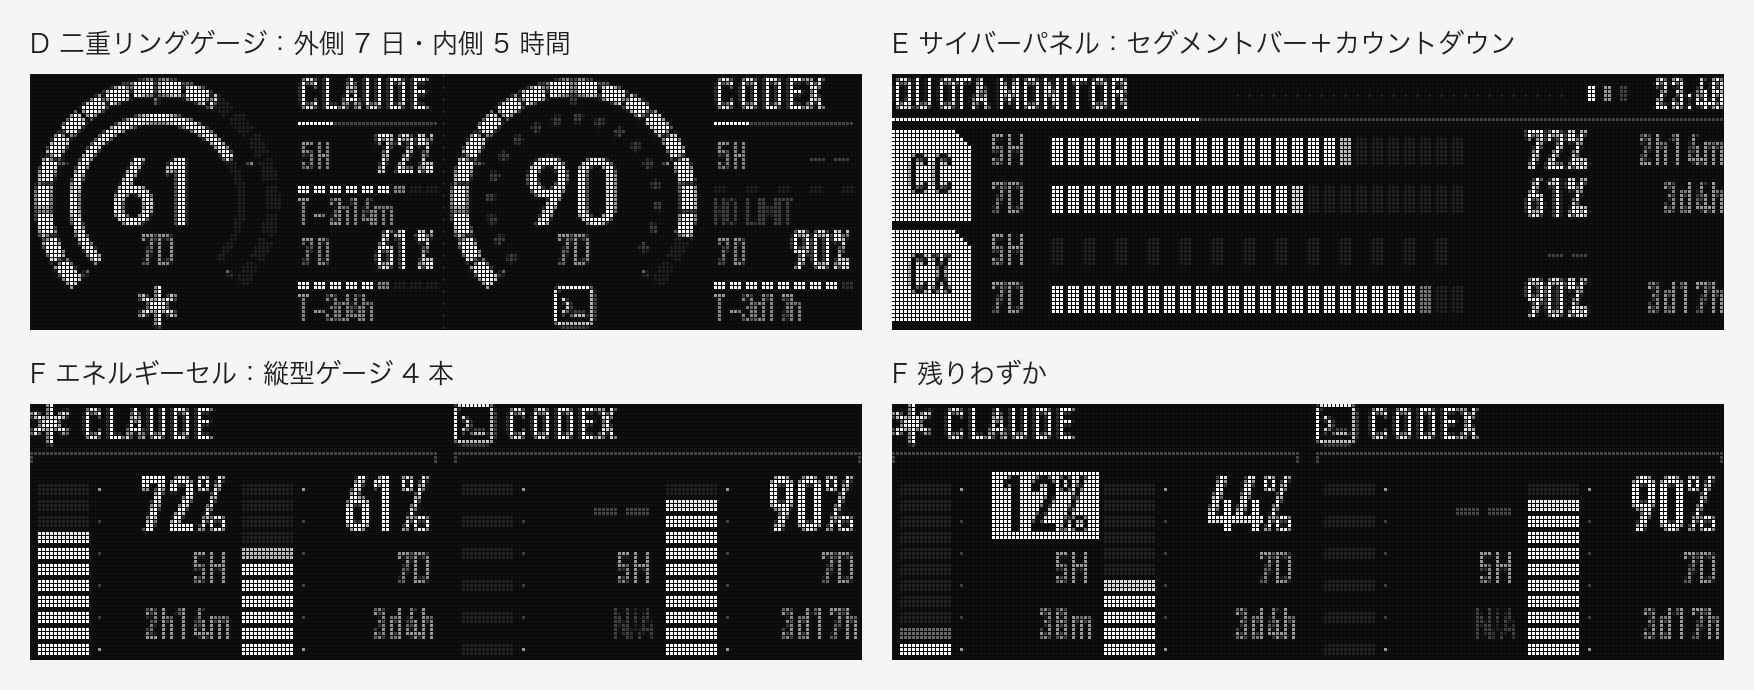
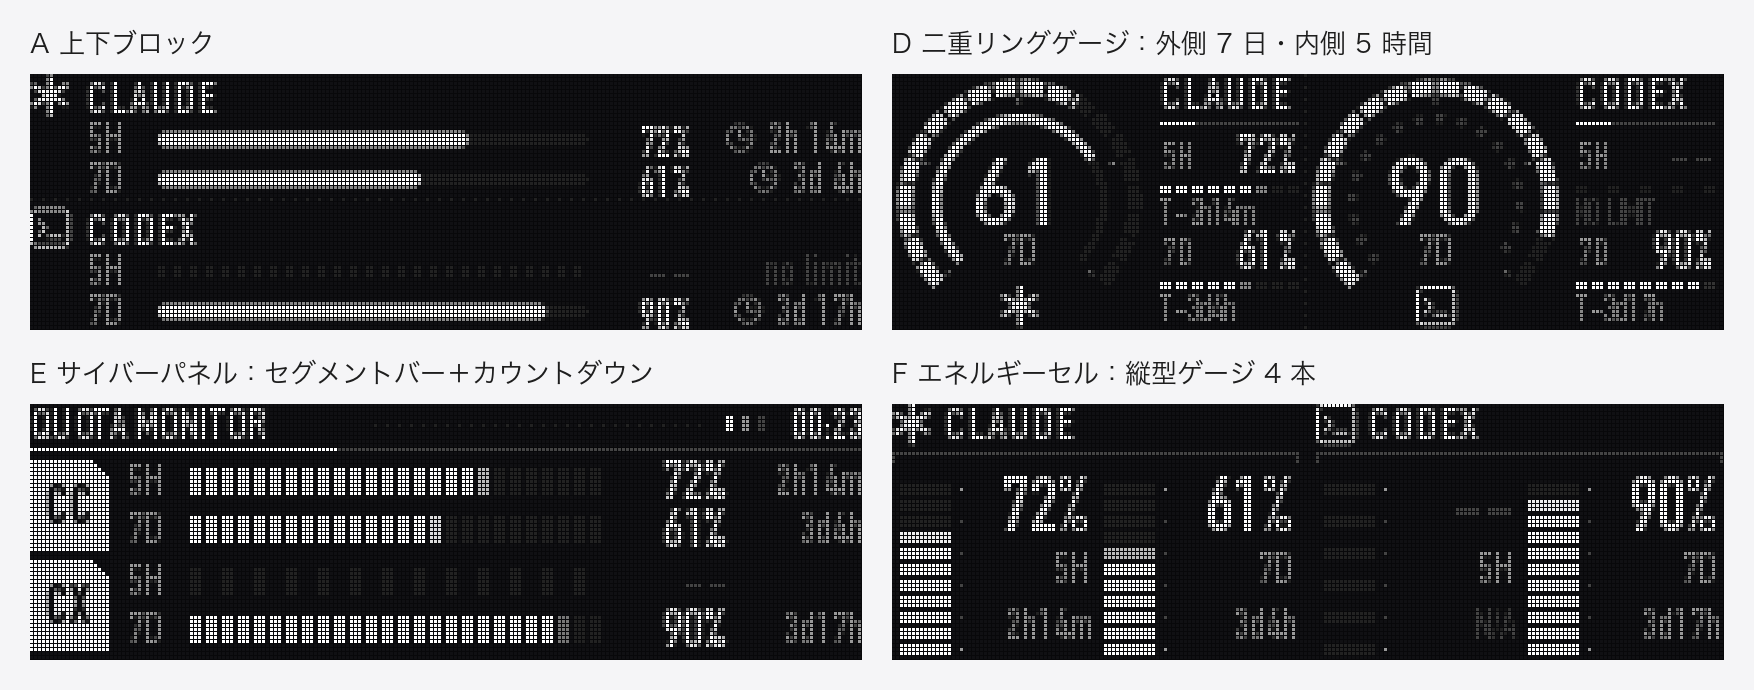
Regroup README images: default layout, its states, then alternatives
The first image mixed three states of layout B with layout A. It now
shows layout B alone; a second image shows B's low-quota and just-reset
states; the alternatives image shows A, D, E and F.

diff --git a/dashboard.py b/dashboard.py
@@ -510,9 +510,10 @@ LABEL_FONTS = {
     "zh": "/System/Library/Fonts/Hiragino Sans GB.ttc",
     "ja": "/System/Library/Fonts/ヒラギノ角ゴシック W3.ttc",
 }
-DOC_SHEETS = {  # README 用的两张图：文件名 → 布局
-    "dashboard": ["B", "B-low", "B-full", "A"],
-    "layouts-alt": ["D", "E", "F", "F-low"],
+DOC_SHEETS = {  # README 用的三张图：文件名 → 布局
+    "dashboard": ["B"],                    # 主图：默认布局
+    "states": ["B-low", "B-full"],         # 默认布局的告急态和最宽的情况
+    "layouts-alt": ["A", "D", "E", "F"],   # 其他布局
 }
 
 
@@ -535,7 +536,7 @@ def mockups(path: str, keys: list[str], lang: str = "zh") -> None:
     label_font = ImageFont.truetype(LABEL_FONTS[lang], 26)
     tiles = [(TITLES[lang][k], oled_zoom(LAYOUTS[k]())) for k in keys]
     tw, th = tiles[0][1].size
-    pad, label_h, cols = 30, 44, 2
+    pad, label_h, cols = 30, 44, min(2, len(tiles))
     rows = (len(tiles) + cols - 1) // cols
     sheet = Image.new("RGB", (cols * tw + (cols + 1) * pad, rows * (th + label_h + pad) + pad), (245, 245, 247))
     d = ImageDraw.Draw(sheet)

diff --git a/README.ja.md b/README.ja.md
@@ -4,7 +4,7 @@
 
 ROG Omni レシーバー経由で接続した ROG キーボードの OLED 画面を macOS から操作します。テキストや画像を表示したり、**Claude Code / Codex の残り使用枠をリアルタイムで表示するダッシュボード**にしたりできます。
 
-![使用枠ダッシュボード：通常・残りわずか・リセット直後の 3 状態と、別レイアウトの上下ブロック](docs/dashboard.ja.png)
+![使用枠ダッシュボード（デフォルトのレイアウト B）：左が Claude、右が Codex](docs/dashboard.ja.png)
 
 ## 機能
 
@@ -67,13 +67,15 @@ usage/node_modules/@anthropic-ai/claude-agent-sdk-darwin-arm64/claude auth login
 
 どちらかのデータが取れない場合、その列は `no data` と表示され、もう一方の列には影響しません。リセット時刻を過ぎた枠は、次の取得を待たずに 100% と表示します。
 
+![レイアウト B の残りわずかの状態（数字が反転）とリセット直後（100%・最も幅の広いケース）](docs/states.ja.png)
+
 ### 調整
 
 - 更新・取得の間隔と離席の判定：[`quota_daemon.py`](quota_daemon.py) の先頭にある `TICK_S`、`CODEX_EVERY_S`、`CLAUDE_EVERY_S`、`IDLE_LIMIT_S`。
 - 警告のしきい値：[`dashboard.py`](dashboard.py) の `LOW`（デフォルトは 20%）。
 - ほかのレイアウト：`dashboard.py` には A（上下ブロック）、D（二重リングゲージ）、E（サイバーパネル）、F（エネルギーセル）もあります。`.venv/bin/python dashboard.py push D` でサンプルをキーボードに送って確認できます。`.venv/bin/python dashboard.py mockups` を実行すると、`docs/` のサンプル画像（英語・中国語・日本語のラベル付き）を作り直します。
 
-![ほかのレイアウト：二重リングゲージ、サイバーパネル、エネルギーセル](docs/layouts-alt.ja.png)
+![ほかのレイアウト：上下ブロック、二重リングゲージ、サイバーパネル、エネルギーセル](docs/layouts-alt.ja.png)
 
 ## Claude の使用枠取得について（使う前にお読みください）
 

diff --git a/README.md b/README.md
@@ -4,7 +4,7 @@
 
 Drive the OLED screen of ROG keyboards connected through the ROG Omni receiver from macOS: show text and images, or turn it into a **live quota dashboard for Claude Code and Codex**.
 
-![Quota dashboard: normal, low-quota and just-reset states, plus the alternative stacked layout](docs/dashboard.en.png)
+![Quota dashboard, default layout B: Claude on the left, Codex on the right](docs/dashboard.en.png)
 
 ## Features
 
@@ -67,13 +67,15 @@ usage/node_modules/@anthropic-ai/claude-agent-sdk-darwin-arm64/claude auth login
 
 If either side has no data, its column shows `no data` and the other column is unaffected. Once a reset time passes, that window shows 100% right away without waiting for the next poll.
 
+![Layout B when quota is low (inverted number) and right after a reset (100%, the widest case)](docs/states.en.png)
+
 ### Tuning
 
 - Refresh and polling intervals, idle detection: `TICK_S`, `CODEX_EVERY_S`, `CLAUDE_EVERY_S`, `IDLE_LIMIT_S` at the top of [`quota_daemon.py`](quota_daemon.py).
 - Warning threshold: `LOW` in [`dashboard.py`](dashboard.py) (20% by default).
 - Other layouts: `dashboard.py` also has A (stacked rows), D (twin-ring gauge), E (cyber panel) and F (power cells). `.venv/bin/python dashboard.py push D` sends a sample to the keyboard; `.venv/bin/python dashboard.py mockups` regenerates the sample images in `docs/` (English, Chinese and Japanese labels).
 
-![Alternative layouts: twin-ring gauge, cyber panel, power cells](docs/layouts-alt.en.png)
+![Alternative layouts: stacked rows, twin-ring gauge, cyber panel, power cells](docs/layouts-alt.en.png)
 
 ## Read this before using the Claude quota
 

diff --git a/README.zh-CN.md b/README.zh-CN.md
@@ -4,7 +4,7 @@
 
 在 macOS 上驱动 ROG 键盘的 OLED 屏（经 ROG Omni 无线接收器）：显示文字、图片，或者把它变成 **Claude Code / Codex 剩余额度的实时看板**。
 
-![额度看板：正常、告急、刚重置三种状态，以及另一种上下分块布局](docs/dashboard.zh.png)
+![额度看板，默认布局 B：左边 Claude，右边 Codex](docs/dashboard.zh.png)
 
 ## 功能
 
@@ -67,13 +67,15 @@ usage/node_modules/@anthropic-ai/claude-agent-sdk-darwin-arm64/claude auth login
 
 两边任何一方没有数据时，对应那栏显示 `no data`，不影响另一栏。重置时间一过，那个窗口直接显示 100%，不用等下一次查询。
 
+![布局 B 的告急状态（数字反白）和刚重置时（100%，最宽的情况）](docs/states.zh.png)
+
 ### 调整
 
 - 刷新与查询间隔、空闲判定：[`quota_daemon.py`](quota_daemon.py) 顶部的 `TICK_S`、`CODEX_EVERY_S`、`CLAUDE_EVERY_S`、`IDLE_LIMIT_S`。
 - 告急阈值：[`dashboard.py`](dashboard.py) 里的 `LOW`（默认 20%）。
 - 其他布局：`dashboard.py` 里还有 A（上下分块）、D（双环仪表）、E（赛博面板）、F（能量柱）。`.venv/bin/python dashboard.py push D` 把示例发到键盘上看效果；`.venv/bin/python dashboard.py mockups` 重新生成 `docs/` 下的示例图（英 / 中 / 日三种标注）。
 
-![其他布局：双环仪表、赛博面板、能量柱](docs/layouts-alt.zh.png)
+![其他布局：上下分块、双环仪表、赛博面板、能量柱](docs/layouts-alt.zh.png)
 
 ## 关于 Claude 额度查询，请先读这里
 
